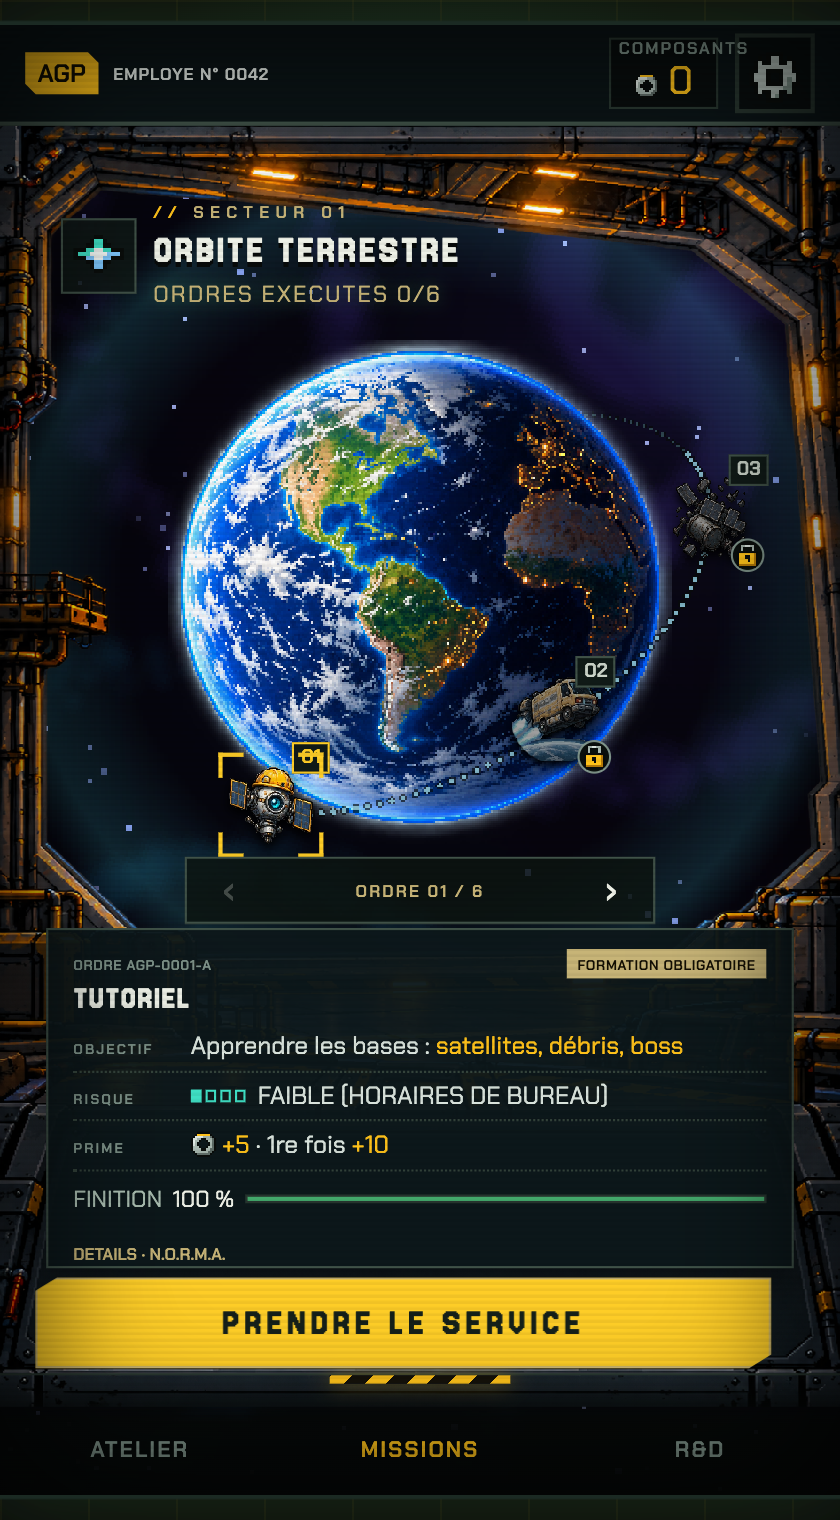
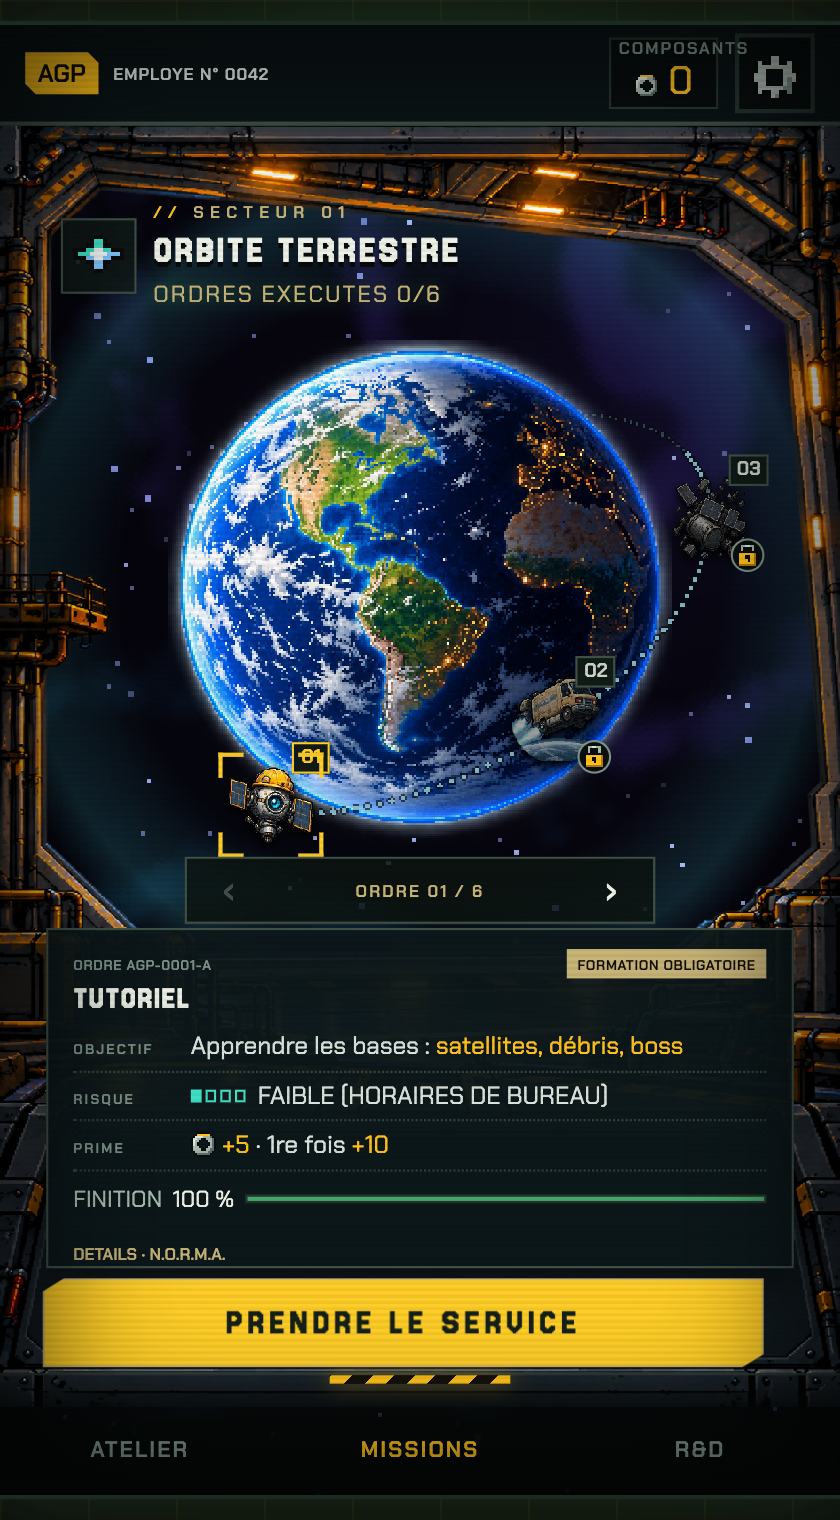
fix(mission): le drone et le bouton OVERDRIVE apparaissent à l'assemblage

diff --git a/src/player/progression.js b/src/player/progression.js
@@ -48,6 +48,21 @@ mixin(GameScene, {
     if (this.stats.maxHp > hp0) this.hp = Math.min(this.stats.maxHp, this.hp + this.stats.maxHp - hp0);
     if (this.stats.shieldMax > sh0) this.shield = Math.min(this.stats.shieldMax, this.shield + this.stats.shieldMax - sh0);
     this.dodgeCharges += this.stats.dodgeCharges - dg0;
+    this.techSync();
+  },
+
+  // visuels qui dépendent d'un assemblage en cours de partie : sprites du drone (1, ou 3 avec ESSAIM) et bouton OVERDRIVE
+  techSync(){
+    const want = this.droneOwned ? (this.droneSwarmOwned ? 3 : 1) : 0;
+    if (this.droneSprites.length !== want){
+      this.droneSprites.forEach(d=> d.destroy()); this.droneSprites = [];
+      for (let i = 0; i < want; i++){
+        const d = this.add.image(this.player.x, this.player.y - 40, 'droneSat');
+        d.setDepth(11); d.angleOffset = (Math.PI*2/want)*i; d.fireTimer = Phaser.Math.Between(0, 300);
+        this.droneSprites.push(d);
+      }
+    }
+    const od = document.getElementById('odBtn'); if (od) od.classList.toggle('show', this.stats.overdrive > 0);
   },
 
   // assemble une technologie du chargement : effet de base, puis ses rangs de R&D

diff --git a/src/scenes/GameScene.js b/src/scenes/GameScene.js
@@ -138,17 +138,7 @@ class GameScene extends Phaser.Scene{
       this.shieldAura.setTexture('aura_' + startKey);
     }
 
-    this.droneSprites = [];
-    if (this.droneOwned){
-      const droneCount = this.droneSwarmOwned ? 3 : 1;
-      for (let i=0;i<droneCount;i++){
-        const d = this.add.image(this.player.x, this.player.y-40, 'droneSat');
-        d.setDepth(11);
-        d.angleOffset = (Math.PI*2/droneCount)*i;
-        d.fireTimer = Phaser.Math.Between(0,300);
-        this.droneSprites.push(d);
-      }
-    }
+    this.droneSprites = [];                 // créés à l'assemblage du DRONE SATELLITE (techSync)
 
     // input drag — worldX/Y tient compte du zoom de la caméra, contrairement à x/y bruts
     this.input.on('pointerdown', (p)=>{

diff --git a/tools/techs_test.py b/tools/techs_test.py
@@ -114,5 +114,20 @@ with mission({'v':3,'composants':0,'rd':RD('arc_electrique','ricochets','pulsar'
     ck('fus_orage' in f and 'fus_vortex' not in f,'ORAGE disponible quand les deux sont assemblées, VORTEX jamais (trou noir indisponible) : %s'%f)
     ck(not errs,'(i) pas d\'erreur JS')
 
+# ---- (j) le DRONE apparaît à l'assemblage (et passe à 3 avec ESSAIM) ; (k) le bouton OVERDRIVE apparaît à l'assemblage
+with mission({'v':3,'composants':0,'rd':RD('drone',drone={'spe':True}),'chargement':['drone']}) as (p,errs):
+    ck(ev(p,"return s.droneSprites.length")==0,'drone : aucun sprite avant l\'assemblage')
+    ev(p,"s.techAssemble('drone'); return 0")
+    ck(ev(p,"return s.droneSprites.length")==1,'drone assemblé : le sprite du drone existe (%s)'%ev(p,"return s.droneSprites.length"))
+    DU='up_drone_t_drone_cadence'
+    take(p,DU); take(p,DU); take(p,'spe_drone')
+    ck(ev(p,"return s.droneSprites.length")==3 and ev(p,"return s.droneSprites.every(d=>d.active)"),'ESSAIM : trois drones actifs')
+    ck(not errs,'(j) pas d\'erreur JS')
+with mission({'v':3,'composants':0,'rd':RD('overdrive'),'chargement':['overdrive']}, worlds=W1) as (p,errs):
+    ck(ev(p,"return document.getElementById('odBtn').classList.contains('show')")==False,'overdrive : bouton masqué avant l\'assemblage')
+    ev(p,"s.techAssemble('overdrive'); return 0")
+    ck(ev(p,"return document.getElementById('odBtn').classList.contains('show')")==True,'overdrive assemblé : le bouton OVERDRIVE apparaît')
+    ck(not errs,'(k) pas d\'erreur JS')
+
 if fails: print('ÉCHEC : techs (%d)'%len(fails)); sys.exit(1)
 print('OK : techs')

diff --git a/docs/carte/symboles.md b/docs/carte/symboles.md
@@ -1080,6 +1080,7 @@ Cherchez un nom (Ctrl+F) pour savoir où il est défini. « méthode » = métho
 | `techEffect` | méthode | `src/player/progression.js` | `GameScene` |
 | `techMaxRang` | const | `src/data/techs.js` |  |
 | `TECHS` | const | `src/data/techs.js` |  |
+| `techSync` | méthode | `src/player/progression.js` | `GameScene` |
 | `throwEmp` | méthode | `src/events/types.js` | `GameScene` |
 | `tick` | méthode | `src/audio/music.js` | `FileMusic` |
 | `tickCorridor` | méthode | `src/events/types.js` | `GameScene` |
@@ -1194,4 +1195,4 @@ Cherchez un nom (Ctrl+F) pour savoir où il est défini. « méthode » = métho
 | `ZOOM_END` | const | `src/core/constants.js` |  |
 | `ZOOM_START` | const | `src/core/constants.js` |  |
 
-1187 symboles.
+1188 symboles.

diff --git a/docs/carte/fichiers.md b/docs/carte/fichiers.md
@@ -519,7 +519,7 @@ L'ordre est celui de `src/scripts.json` : un fichier ne peut utiliser au démarr
 
 **`progression.js`** — Méthodes de GameScene — montée de niveau, cartes d'amélioration, palier du vaisseau.
 
-- Méthodes ajoutées à `GameScene` (mixin) : `levelUp`, `cardPool`, `drawCards`, `showUpgradeCards`, `assemblyCards`, `techEffect`, `techAssemble`, `techCards`, `cardCount`, `renderCardChoices`, `rerollCards`, `updateShipTier`
+- Méthodes ajoutées à `GameScene` (mixin) : `levelUp`, `cardPool`, `drawCards`, `showUpgradeCards`, `assemblyCards`, `techEffect`, `techSync`, `techAssemble`, `techCards`, `cardCount`, `renderCardChoices`, `rerollCards`, `updateShipTier`
 
 ### `src/enemies/`
 

diff --git a/docs/carte/interface.md b/docs/carte/interface.md
@@ -182,7 +182,7 @@ Un id sans utilisation = texte/structure purement visuel ou reste d'un ancien é
 | `styleCount` | `ui/hud.js` | `css/style.css` |
 | `styleXp` | `ui/hud.js` | `css/style.css` |
 | `styleFill` | `ui/hud.js` | — |
-| `odBtn` | `scenes/GameScene.js`, `systems/overdrive.js`, `ui/dom.js` | `css/style.css`, `css/agp.css` |
+| `odBtn` | `player/progression.js`, `scenes/GameScene.js`, `systems/overdrive.js`, `ui/dom.js` | `css/style.css`, `css/agp.css` |
 | `redVig` | `game/run.js`, `systems/skills.js` | `css/style.css` |
 | `gameover` | `game/run.js`, `game/tuto.js`, `scenes/GameScene.js`, `ui/dom.js`, `ui/motion.js` | `css/style.css`, `css/agp.css` |
 | `rpNo` | `game/run.js` | — |
